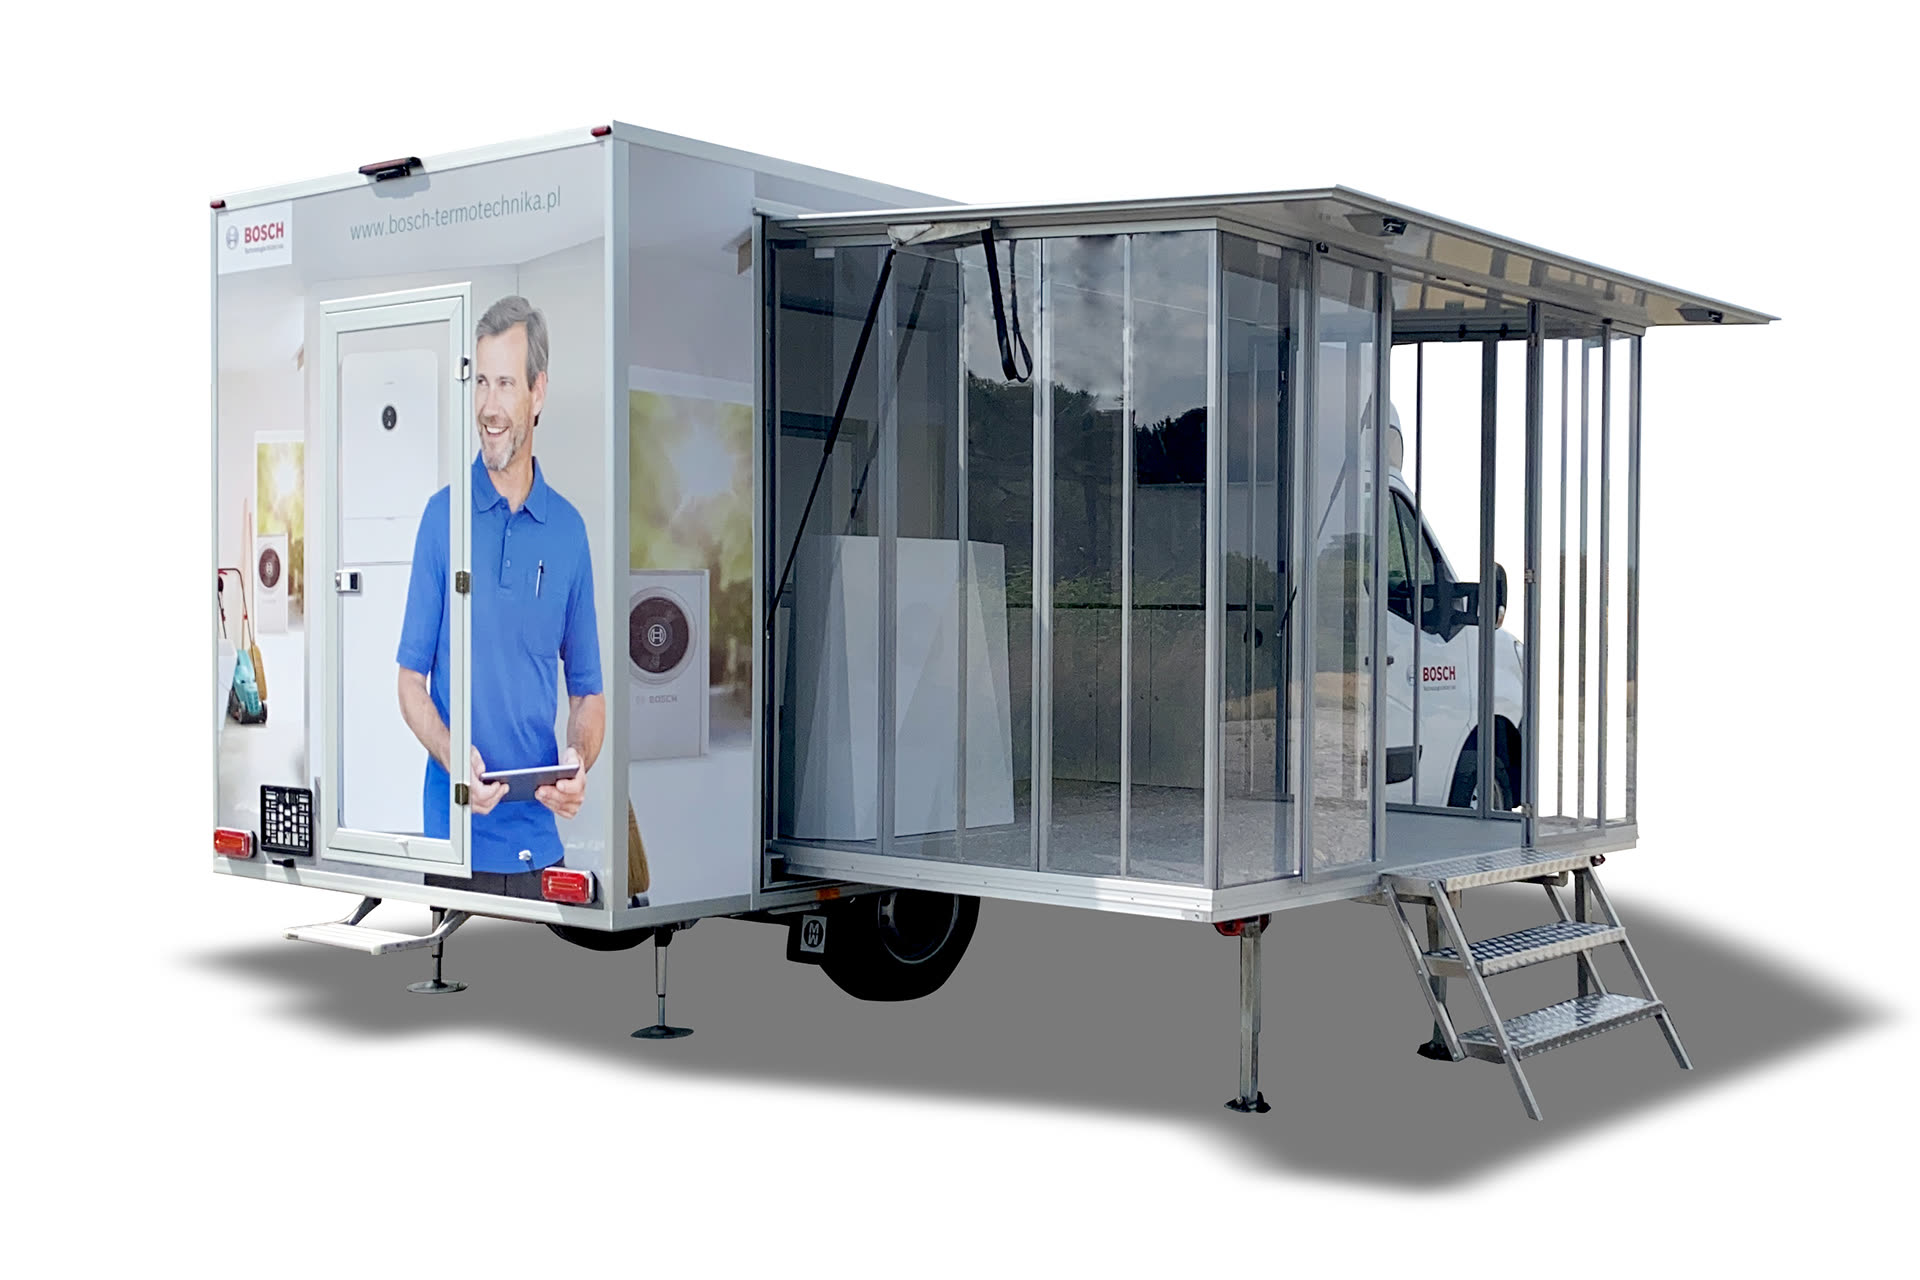
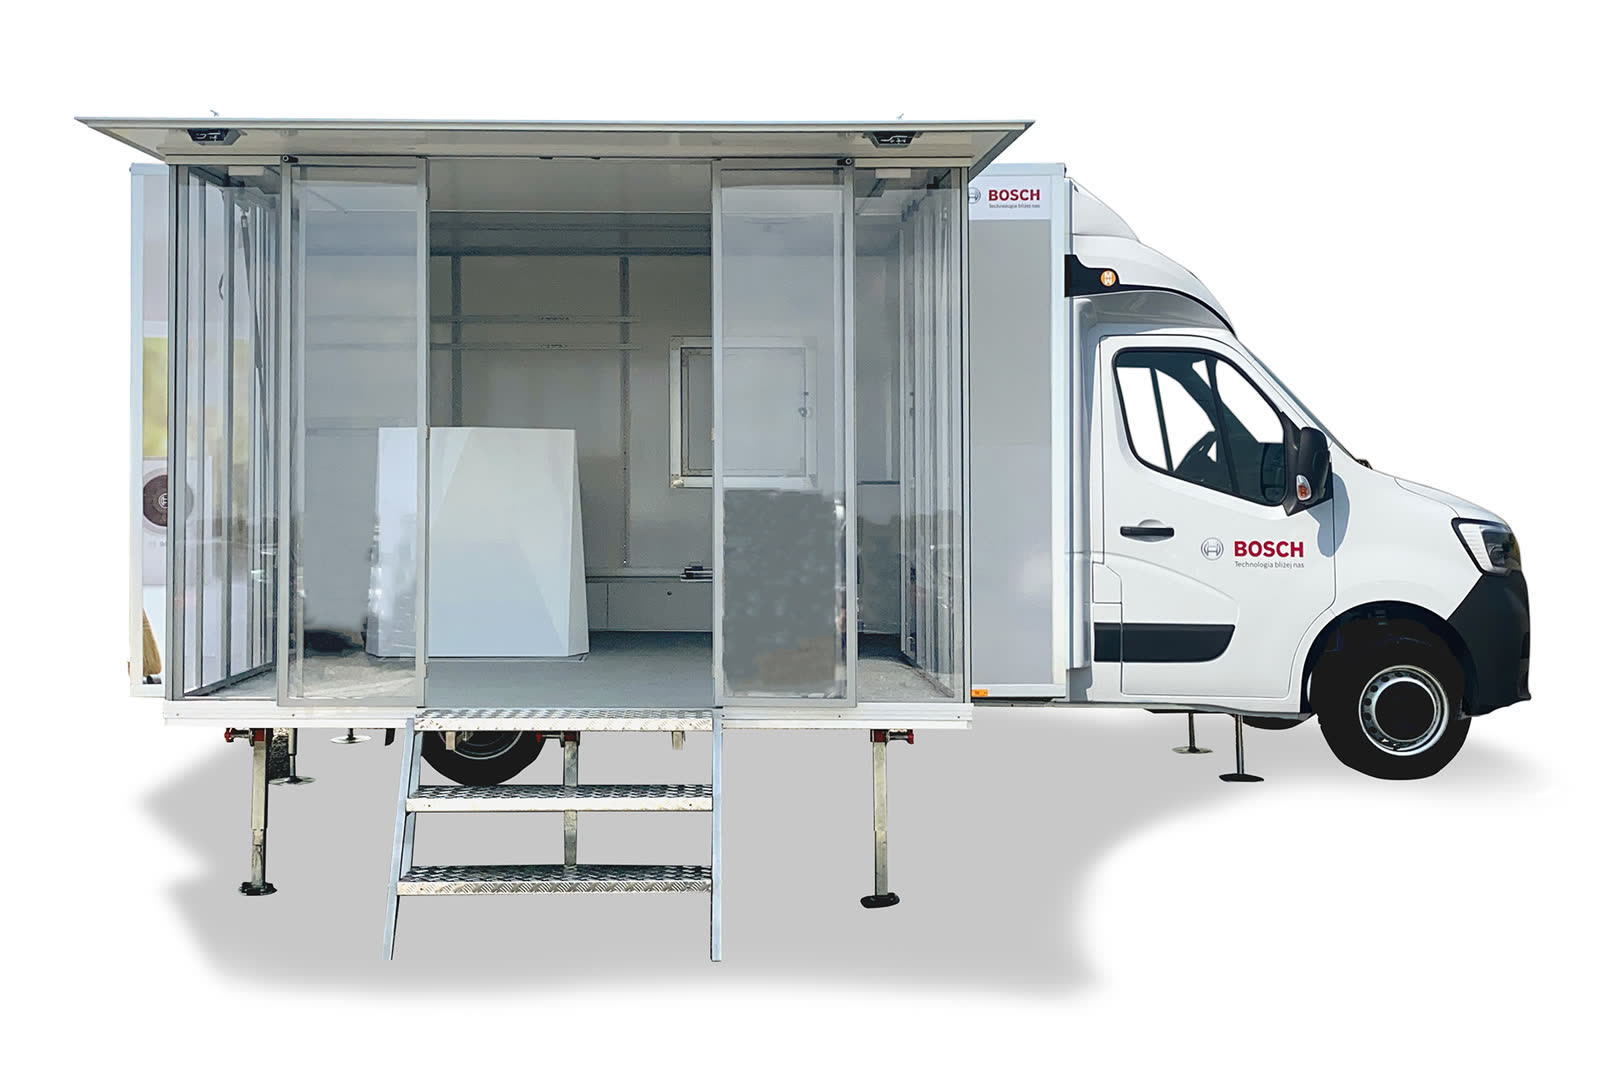
Realizacje: poprawione zdjęcia główne (po wizualnej weryfikacji)
- Adversarialny przegląd 109 hero (agenci oglądali zdjęcia): 11 słabych.
- 5 realizacji dostało lepsze hero (1762,578,549,351,345 — czyste ujęcie
  pojazdu zamiast banera/wnętrza). 1811 (tylko portret) wykluczone → 108.
- Panel „Pojazdy specjalne" na stronie głównej ← czystszy kadr 1762/04.
- Weryfikacja: 0 brakujących, 0 pomieszanych zdjęć.

diff --git a/realizacje.html b/realizacje.html
@@ -59,10 +59,6 @@
     <div class="real-card__media"><img src="assets/img/realizacje/1813/01.jpg" alt="Kontener Aluminiowy na Toyocie | Moto Wektor" loading="lazy"></div>
     <div class="real-card__body"><h3>Kontener Aluminiowy na Toyocie</h3><span class="real-card__meta"><svg viewBox="0 0 24 24" fill="none" stroke="currentColor" stroke-width="1.7"><rect x="3" y="3" width="18" height="18" rx="2"/><circle cx="8.5" cy="8.5" r="1.5"/><path d="m21 15-5-5L5 21"/></svg>2 zdjęcia</span></div>
   </a>
-  <a class="real-card" href="realizacje/1811.html">
-    <div class="real-card__media"><img src="assets/img/realizacje/1811/01.jpg" alt="Izoterma z certyfikatem ATP i zestawem ADR na Renault L3 | Moto Wektor" loading="lazy"></div>
-    <div class="real-card__body"><h3>Izoterma z certyfikatem ATP i zestawem ADR na Renault L3</h3><span class="real-card__meta"><svg viewBox="0 0 24 24" fill="none" stroke="currentColor" stroke-width="1.7"><rect x="3" y="3" width="18" height="18" rx="2"/><circle cx="8.5" cy="8.5" r="1.5"/><path d="m21 15-5-5L5 21"/></svg>1 zdjęcie</span></div>
-  </a>
   <a class="real-card" href="realizacje/1808.html">
     <div class="real-card__media"><img src="assets/img/realizacje/1808/01.jpg" alt="Wywrotka nożycowa - Mercedes Sprinter | Moto Wektor" loading="lazy"></div>
     <div class="real-card__body"><h3>Wywrotka nożycowa - Mercedes Sprinter</h3><span class="real-card__meta"><svg viewBox="0 0 24 24" fill="none" stroke="currentColor" stroke-width="1.7"><rect x="3" y="3" width="18" height="18" rx="2"/><circle cx="8.5" cy="8.5" r="1.5"/><path d="m21 15-5-5L5 21"/></svg>7 zdjęć</span></div>
@@ -128,7 +124,7 @@
     <div class="real-card__body"><h3>Spojler Diamond z nadstawką</h3><span class="real-card__meta"><svg viewBox="0 0 24 24" fill="none" stroke="currentColor" stroke-width="1.7"><rect x="3" y="3" width="18" height="18" rx="2"/><circle cx="8.5" cy="8.5" r="1.5"/><path d="m21 15-5-5L5 21"/></svg>4 zdjęcia</span></div>
   </a>
   <a class="real-card" href="realizacje/1762.html">
-    <div class="real-card__media"><img src="assets/img/realizacje/1762/01.jpg" alt="Pojazd wystawowy, rozkładany jednostronnie | Moto Wektor" loading="lazy"></div>
+    <div class="real-card__media"><img src="assets/img/realizacje/1762/04.jpg" alt="Pojazd wystawowy, rozkładany jednostronnie | Moto Wektor" loading="lazy"></div>
     <div class="real-card__body"><h3>Pojazd wystawowy, rozkładany jednostronnie</h3><span class="real-card__meta"><svg viewBox="0 0 24 24" fill="none" stroke="currentColor" stroke-width="1.7"><rect x="3" y="3" width="18" height="18" rx="2"/><circle cx="8.5" cy="8.5" r="1.5"/><path d="m21 15-5-5L5 21"/></svg>11 zdjęć</span></div>
   </a>
   <a class="real-card" href="realizacje/1730.html">
@@ -260,7 +256,7 @@
     <div class="real-card__body"><h3>Chłodnia Citroen Jumper</h3><span class="real-card__meta"><svg viewBox="0 0 24 24" fill="none" stroke="currentColor" stroke-width="1.7"><rect x="3" y="3" width="18" height="18" rx="2"/><circle cx="8.5" cy="8.5" r="1.5"/><path d="m21 15-5-5L5 21"/></svg>7 zdjęć</span></div>
   </a>
   <a class="real-card" href="realizacje/578.html">
-    <div class="real-card__media"><img src="assets/img/realizacje/578/01.jpg" alt="Chłodnia Fiat Ducato | Moto Wektor" loading="lazy"></div>
+    <div class="real-card__media"><img src="assets/img/realizacje/578/02.jpg" alt="Chłodnia Fiat Ducato | Moto Wektor" loading="lazy"></div>
     <div class="real-card__body"><h3>Chłodnia Fiat Ducato</h3><span class="real-card__meta"><svg viewBox="0 0 24 24" fill="none" stroke="currentColor" stroke-width="1.7"><rect x="3" y="3" width="18" height="18" rx="2"/><circle cx="8.5" cy="8.5" r="1.5"/><path d="m21 15-5-5L5 21"/></svg>8 zdjęć</span></div>
   </a>
   <a class="real-card" href="realizacje/576.html">
@@ -288,7 +284,7 @@
     <div class="real-card__body"><h3>Opel Movano - skrzynia z plandeką</h3><span class="real-card__meta"><svg viewBox="0 0 24 24" fill="none" stroke="currentColor" stroke-width="1.7"><rect x="3" y="3" width="18" height="18" rx="2"/><circle cx="8.5" cy="8.5" r="1.5"/><path d="m21 15-5-5L5 21"/></svg>5 zdjęć</span></div>
   </a>
   <a class="real-card" href="realizacje/549.html">
-    <div class="real-card__media"><img src="assets/img/realizacje/549/01.jpg" alt="Foodtruck Retro biało-czerwony | Moto Wektor" loading="lazy"></div>
+    <div class="real-card__media"><img src="assets/img/realizacje/549/02.jpg" alt="Foodtruck Retro biało-czerwony | Moto Wektor" loading="lazy"></div>
     <div class="real-card__body"><h3>Foodtruck Retro biało-czerwony</h3><span class="real-card__meta"><svg viewBox="0 0 24 24" fill="none" stroke="currentColor" stroke-width="1.7"><rect x="3" y="3" width="18" height="18" rx="2"/><circle cx="8.5" cy="8.5" r="1.5"/><path d="m21 15-5-5L5 21"/></svg>20 zdjęć</span></div>
   </a>
   <a class="real-card" href="realizacje/538.html">
@@ -400,7 +396,7 @@
     <div class="real-card__body"><h3>Izoterma do przewozu kwiatów</h3><span class="real-card__meta"><svg viewBox="0 0 24 24" fill="none" stroke="currentColor" stroke-width="1.7"><rect x="3" y="3" width="18" height="18" rx="2"/><circle cx="8.5" cy="8.5" r="1.5"/><path d="m21 15-5-5L5 21"/></svg>8 zdjęć</span></div>
   </a>
   <a class="real-card" href="realizacje/351.html">
-    <div class="real-card__media"><img src="assets/img/realizacje/351/01.jpg" alt="Adaptacja przyczepy do przewozu surowców wtórnych | Moto Wektor" loading="lazy"></div>
+    <div class="real-card__media"><img src="assets/img/realizacje/351/03.jpg" alt="Adaptacja przyczepy do przewozu surowców wtórnych | Moto Wektor" loading="lazy"></div>
     <div class="real-card__body"><h3>Adaptacja przyczepy do przewozu surowców wtórnych</h3><span class="real-card__meta"><svg viewBox="0 0 24 24" fill="none" stroke="currentColor" stroke-width="1.7"><rect x="3" y="3" width="18" height="18" rx="2"/><circle cx="8.5" cy="8.5" r="1.5"/><path d="m21 15-5-5L5 21"/></svg>8 zdjęć</span></div>
   </a>
   <a class="real-card" href="realizacje/348.html">
@@ -412,7 +408,7 @@
     <div class="real-card__body"><h3>Wywrotka z plandeką Nissan Cabstar</h3><span class="real-card__meta"><svg viewBox="0 0 24 24" fill="none" stroke="currentColor" stroke-width="1.7"><rect x="3" y="3" width="18" height="18" rx="2"/><circle cx="8.5" cy="8.5" r="1.5"/><path d="m21 15-5-5L5 21"/></svg>18 zdjęć</span></div>
   </a>
   <a class="real-card" href="realizacje/345.html">
-    <div class="real-card__media"><img src="assets/img/realizacje/345/01.jpg" alt="Furgon Fiat Ducato | Moto Wektor" loading="lazy"></div>
+    <div class="real-card__media"><img src="assets/img/realizacje/345/03.jpg" alt="Furgon Fiat Ducato | Moto Wektor" loading="lazy"></div>
     <div class="real-card__body"><h3>Furgon Fiat Ducato</h3><span class="real-card__meta"><svg viewBox="0 0 24 24" fill="none" stroke="currentColor" stroke-width="1.7"><rect x="3" y="3" width="18" height="18" rx="2"/><circle cx="8.5" cy="8.5" r="1.5"/><path d="m21 15-5-5L5 21"/></svg>7 zdjęć</span></div>
   </a>
   <a class="real-card" href="realizacje/344.html">

diff --git a/realizacje/1762.html b/realizacje/1762.html
@@ -58,16 +58,16 @@
         <div class="mw-gal__stage">
           <div class="mw-gal__track">
             <div class="mw-gal__slide" role="group" aria-roledescription="slajd" aria-label="1 z 11">
-              <div class="mw-gal__media"><img src="../assets/img/realizacje/1762/01.jpg" alt="Pojazd wystawowy, rozkładany jednostronnie — zdjęcie 1 | Moto Wektor" loading="eager" draggable="false"></div>
+              <div class="mw-gal__media"><img src="../assets/img/realizacje/1762/04.jpg" alt="Pojazd wystawowy, rozkładany jednostronnie — zdjęcie 1 | Moto Wektor" loading="eager" draggable="false"></div>
             </div>
             <div class="mw-gal__slide" role="group" aria-roledescription="slajd" aria-label="2 z 11">
-              <div class="mw-gal__media"><img src="../assets/img/realizacje/1762/02.jpg" alt="Pojazd wystawowy, rozkładany jednostronnie — zdjęcie 2 | Moto Wektor" loading="lazy" draggable="false"></div>
+              <div class="mw-gal__media"><img src="../assets/img/realizacje/1762/01.jpg" alt="Pojazd wystawowy, rozkładany jednostronnie — zdjęcie 2 | Moto Wektor" loading="lazy" draggable="false"></div>
             </div>
             <div class="mw-gal__slide" role="group" aria-roledescription="slajd" aria-label="3 z 11">
-              <div class="mw-gal__media"><img src="../assets/img/realizacje/1762/03.jpg" alt="Pojazd wystawowy, rozkładany jednostronnie — zdjęcie 3 | Moto Wektor" loading="lazy" draggable="false"></div>
+              <div class="mw-gal__media"><img src="../assets/img/realizacje/1762/02.jpg" alt="Pojazd wystawowy, rozkładany jednostronnie — zdjęcie 3 | Moto Wektor" loading="lazy" draggable="false"></div>
             </div>
             <div class="mw-gal__slide" role="group" aria-roledescription="slajd" aria-label="4 z 11">
-              <div class="mw-gal__media"><img src="../assets/img/realizacje/1762/04.jpg" alt="Pojazd wystawowy, rozkładany jednostronnie — zdjęcie 4 | Moto Wektor" loading="lazy" draggable="false"></div>
+              <div class="mw-gal__media"><img src="../assets/img/realizacje/1762/03.jpg" alt="Pojazd wystawowy, rozkładany jednostronnie — zdjęcie 4 | Moto Wektor" loading="lazy" draggable="false"></div>
             </div>
             <div class="mw-gal__slide" role="group" aria-roledescription="slajd" aria-label="5 z 11">
               <div class="mw-gal__media"><img src="../assets/img/realizacje/1762/05.jpg" alt="Pojazd wystawowy, rozkładany jednostronnie — zdjęcie 5 | Moto Wektor" loading="lazy" draggable="false"></div>

diff --git a/realizacje/345.html b/realizacje/345.html
@@ -58,13 +58,13 @@
         <div class="mw-gal__stage">
           <div class="mw-gal__track">
             <div class="mw-gal__slide" role="group" aria-roledescription="slajd" aria-label="1 z 7">
-              <div class="mw-gal__media"><img src="../assets/img/realizacje/345/01.jpg" alt="Furgon Fiat Ducato — zdjęcie 1 | Moto Wektor" loading="eager" draggable="false"></div>
+              <div class="mw-gal__media"><img src="../assets/img/realizacje/345/03.jpg" alt="Furgon Fiat Ducato — zdjęcie 1 | Moto Wektor" loading="eager" draggable="false"></div>
             </div>
             <div class="mw-gal__slide" role="group" aria-roledescription="slajd" aria-label="2 z 7">
-              <div class="mw-gal__media"><img src="../assets/img/realizacje/345/02.jpg" alt="Furgon Fiat Ducato — zdjęcie 2 | Moto Wektor" loading="lazy" draggable="false"></div>
+              <div class="mw-gal__media"><img src="../assets/img/realizacje/345/01.jpg" alt="Furgon Fiat Ducato — zdjęcie 2 | Moto Wektor" loading="lazy" draggable="false"></div>
             </div>
             <div class="mw-gal__slide" role="group" aria-roledescription="slajd" aria-label="3 z 7">
-              <div class="mw-gal__media"><img src="../assets/img/realizacje/345/03.jpg" alt="Furgon Fiat Ducato — zdjęcie 3 | Moto Wektor" loading="lazy" draggable="false"></div>
+              <div class="mw-gal__media"><img src="../assets/img/realizacje/345/02.jpg" alt="Furgon Fiat Ducato — zdjęcie 3 | Moto Wektor" loading="lazy" draggable="false"></div>
             </div>
             <div class="mw-gal__slide" role="group" aria-roledescription="slajd" aria-label="4 z 7">
               <div class="mw-gal__media"><img src="../assets/img/realizacje/345/04.jpg" alt="Furgon Fiat Ducato — zdjęcie 4 | Moto Wektor" loading="lazy" draggable="false"></div>

diff --git a/realizacje/351.html b/realizacje/351.html
@@ -58,13 +58,13 @@
         <div class="mw-gal__stage">
           <div class="mw-gal__track">
             <div class="mw-gal__slide" role="group" aria-roledescription="slajd" aria-label="1 z 8">
-              <div class="mw-gal__media"><img src="../assets/img/realizacje/351/01.jpg" alt="Adaptacja przyczepy do przewozu surowców wtórnych — zdjęcie 1 | Moto Wektor" loading="eager" draggable="false"></div>
+              <div class="mw-gal__media"><img src="../assets/img/realizacje/351/03.jpg" alt="Adaptacja przyczepy do przewozu surowców wtórnych — zdjęcie 1 | Moto Wektor" loading="eager" draggable="false"></div>
             </div>
             <div class="mw-gal__slide" role="group" aria-roledescription="slajd" aria-label="2 z 8">
-              <div class="mw-gal__media"><img src="../assets/img/realizacje/351/02.jpg" alt="Adaptacja przyczepy do przewozu surowców wtórnych — zdjęcie 2 | Moto Wektor" loading="lazy" draggable="false"></div>
+              <div class="mw-gal__media"><img src="../assets/img/realizacje/351/01.jpg" alt="Adaptacja przyczepy do przewozu surowców wtórnych — zdjęcie 2 | Moto Wektor" loading="lazy" draggable="false"></div>
             </div>
             <div class="mw-gal__slide" role="group" aria-roledescription="slajd" aria-label="3 z 8">
-              <div class="mw-gal__media"><img src="../assets/img/realizacje/351/03.jpg" alt="Adaptacja przyczepy do przewozu surowców wtórnych — zdjęcie 3 | Moto Wektor" loading="lazy" draggable="false"></div>
+              <div class="mw-gal__media"><img src="../assets/img/realizacje/351/02.jpg" alt="Adaptacja przyczepy do przewozu surowców wtórnych — zdjęcie 3 | Moto Wektor" loading="lazy" draggable="false"></div>
             </div>
             <div class="mw-gal__slide" role="group" aria-roledescription="slajd" aria-label="4 z 8">
               <div class="mw-gal__media"><img src="../assets/img/realizacje/351/04.jpg" alt="Adaptacja przyczepy do przewozu surowców wtórnych — zdjęcie 4 | Moto Wektor" loading="lazy" draggable="false"></div>

diff --git a/realizacje/549.html b/realizacje/549.html
@@ -58,10 +58,10 @@
         <div class="mw-gal__stage">
           <div class="mw-gal__track">
             <div class="mw-gal__slide" role="group" aria-roledescription="slajd" aria-label="1 z 20">
-              <div class="mw-gal__media"><img src="../assets/img/realizacje/549/01.jpg" alt="Foodtruck Retro biało-czerwony — zdjęcie 1 | Moto Wektor" loading="eager" draggable="false"></div>
+              <div class="mw-gal__media"><img src="../assets/img/realizacje/549/02.jpg" alt="Foodtruck Retro biało-czerwony — zdjęcie 1 | Moto Wektor" loading="eager" draggable="false"></div>
             </div>
             <div class="mw-gal__slide" role="group" aria-roledescription="slajd" aria-label="2 z 20">
-              <div class="mw-gal__media"><img src="../assets/img/realizacje/549/02.jpg" alt="Foodtruck Retro biało-czerwony — zdjęcie 2 | Moto Wektor" loading="lazy" draggable="false"></div>
+              <div class="mw-gal__media"><img src="../assets/img/realizacje/549/01.jpg" alt="Foodtruck Retro biało-czerwony — zdjęcie 2 | Moto Wektor" loading="lazy" draggable="false"></div>
             </div>
             <div class="mw-gal__slide" role="group" aria-roledescription="slajd" aria-label="3 z 20">
               <div class="mw-gal__media"><img src="../assets/img/realizacje/549/03.jpg" alt="Foodtruck Retro biało-czerwony — zdjęcie 3 | Moto Wektor" loading="lazy" draggable="false"></div>

diff --git a/realizacje/578.html b/realizacje/578.html
@@ -58,10 +58,10 @@
         <div class="mw-gal__stage">
           <div class="mw-gal__track">
             <div class="mw-gal__slide" role="group" aria-roledescription="slajd" aria-label="1 z 8">
-              <div class="mw-gal__media"><img src="../assets/img/realizacje/578/01.jpg" alt="Chłodnia Fiat Ducato — zdjęcie 1 | Moto Wektor" loading="eager" draggable="false"></div>
+              <div class="mw-gal__media"><img src="../assets/img/realizacje/578/02.jpg" alt="Chłodnia Fiat Ducato — zdjęcie 1 | Moto Wektor" loading="eager" draggable="false"></div>
             </div>
             <div class="mw-gal__slide" role="group" aria-roledescription="slajd" aria-label="2 z 8">
-              <div class="mw-gal__media"><img src="../assets/img/realizacje/578/02.jpg" alt="Chłodnia Fiat Ducato — zdjęcie 2 | Moto Wektor" loading="lazy" draggable="false"></div>
+              <div class="mw-gal__media"><img src="../assets/img/realizacje/578/01.jpg" alt="Chłodnia Fiat Ducato — zdjęcie 2 | Moto Wektor" loading="lazy" draggable="false"></div>
             </div>
             <div class="mw-gal__slide" role="group" aria-roledescription="slajd" aria-label="3 z 8">
               <div class="mw-gal__media"><img src="../assets/img/realizacje/578/03.jpg" alt="Chłodnia Fiat Ducato — zdjęcie 3 | Moto Wektor" loading="lazy" draggable="false"></div>